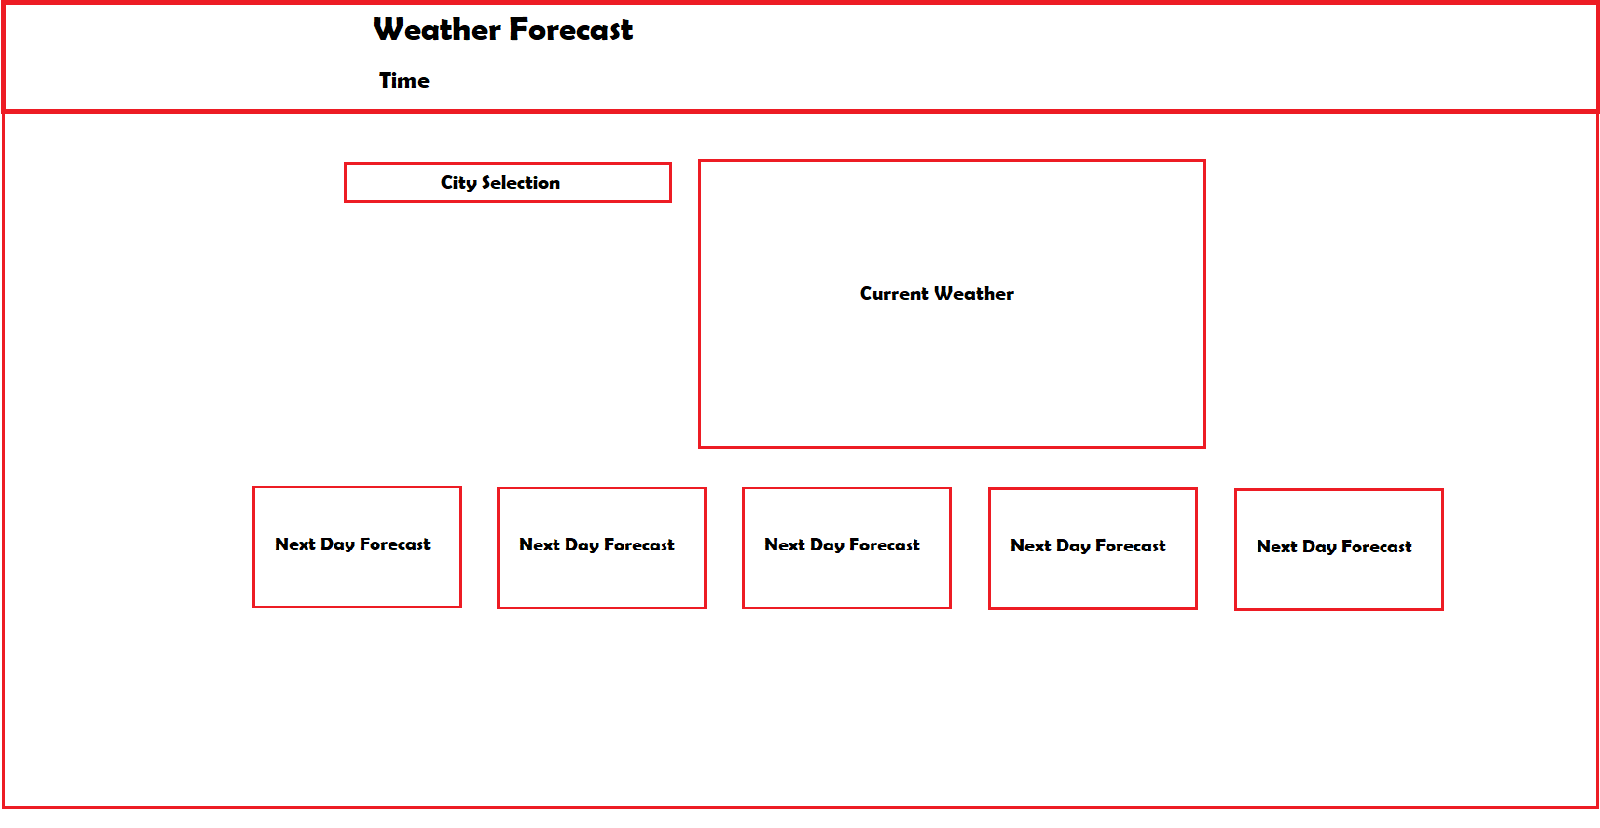
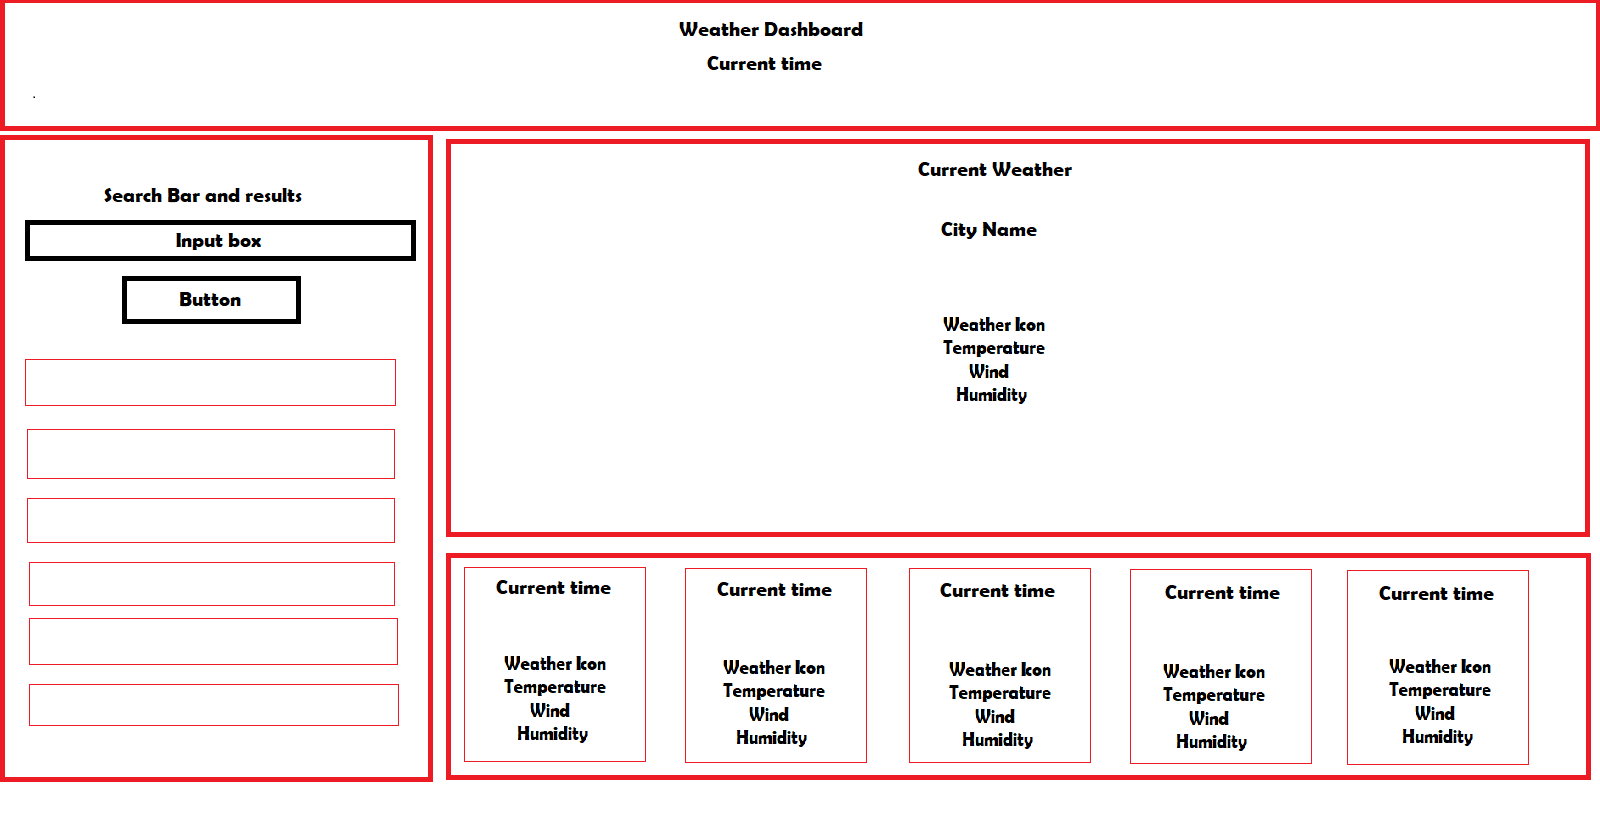
Added API fetches to Javascript file

diff --git a/index.html b/index.html
@@ -11,7 +11,7 @@
     <title>5-day Weather Forecast</title>
   </head>
 
-    <body class="container-fluid">
+    <body class="container-fluid"> <!--Header-->
       <header class="container-fluid text-center" id="header">
         <h1 id="title">Weather Dashboard</h1>
         <h4 id="currentTime"></h4>
@@ -20,60 +20,68 @@
     <div class="container-fluid">
 
       <div class="row">
-        <div class="col-4 d-flex flex-column" id="searchContainer"> <!--Search container-->
+        <div class="col-3 d-flex flex-column" id="searchContainer"> <!--Search container-->
           <h3 class="text-center">Search for a City</h3>
-          <input type="text" id="searchBar"> <!--Search Input-->
+          <input type="text" id="searchBarInput"> <!--Search Input-->
           <button id="searchBtn" class="text-bg-light">Search</button> <!--Search Button-->
+          <!--Search History-->
+          <!--Search History-->
+          <!--Search History-->
         </div>
 
-        <div class="col-8 text-center text-bg-light" id="currentWeatherContainer">
-          <h5 id="cityName-date">Atlanta</h5>
-          <p id="currentTemp">56F</p>
-          <p id="currentWind">15MPH</p>
-          <p id="Humidity">44%</p>
+        <div class="col-8 text-center" id="currentWeatherContainer"> <!--Current Weather Container-->
+          <h6 class="text-center" id="forecastTitle">Current Forecast</h6>
+          <div id="currentWeatherContainer" class="weatherBox">
+          <h5 id="cityName">Atlanta</h5><!--Current City-->
+          <p id="currentTemp">56F</p> <!--Current Temperature-->
+          <p id="currentWind">15MPH</p> <!--Current Wind Speed-->
+          <p id="Humidity">44%</p> <!--Current Humidity-->
+        </div>
+
+        <h6 class="text-center" id="forecastTitle">5-Day Forecast</h6>
+
+          <div class="container d-flex flex-row justify-content-between mt-2" id="forecastContainer">
+            <div class='weatherBox text-center' id="day1">
+              <h4 id="date">9/14/2022</h4>
+              <image id="icon">Icon</image>
+              <p id="temperature">Temperature</p>
+              <p id="wind">Wind</p>
+              <p id="humidity">Humidity</p>
+            </div>
+            <div class='weatherBox text-center' id="day2">
+              <h4 id="date">9/14/2022</h4>
+              <image id="icon">Icon</image>
+              <p id="temperature">Temperature</p>
+              <p id="wind">Wind</p>
+              <p id="humidity">Humidity</p>
+            </div>
+            <div class='weatherBox text-center' id="day3">
+              <h4 id="date">9/14/2022</h4>
+              <image id="icon">Icon</image>
+              <p id="temperature">Temperature</p>
+              <p id="wind">Wind</p>
+              <p id="humidity">Humidity</p>
+            </div>
+            <div class='weatherBox text-center' id="day4">
+              <h4 id="date">9/14/2022</h4>
+              <image id="icon">Icon</image>
+              <p id="temperature">Temperature</p>
+              <p id="wind">Wind</p>
+              <p id="humidity">Humidity</p>
+            </div>
+            <div class='weatherBox text-center' id="day5">
+              <h4 id="date">9/14/2022</h4>
+              <image id="icon">Icon</image>
+              <p id="temperature">Temperature</p>
+              <p id="wind">Wind</p>
+              <p id="humidity">Humidity</p>
+            </div>
         </div>
       </div>
 
     </div>
-    
-    <h6 class="text-center" id="forecastTitle">5-Day Forecast</h6>
-    <div class="container d-flex flex-row justify-content-between" id="forecastContainer">
-  
-      <div class='weatherBox text-center' id="day1">
-        <h4 id="date">9/14/2022</h4>
-        <image id="icon">Picture of weather here</image>
-        <p id="temperature">Temperature</p>
-        <p id="wind">Wind</p>
-        <p id="humidity">Humidity</p>
-      </div>
-      <div class='weatherBox text-center' id="day2">
-        <h4 id="date">9/14/2022</h4>
-        <image id="icon">Picture of weather here</image>
-        <p id="temperature">Temperature</p>
-        <p id="wind">Wind</p>
-        <p id="humidity">Humidity</p>
-      </div>
-      <div class='weatherBox text-center' id="day3">
-        <h4 id="date">9/14/2022</h4>
-        <image id="icon">Picture of weather here</image>
-        <p id="temperature">Temperature</p>
-        <p id="wind">Wind</p>
-        <p id="humidity">Humidity</p>
-      </div>
-      <div class='weatherBox text-center' id="day4">
-        <h4 id="date">9/14/2022</h4>
-        <image id="icon">Picture of weather here</image>
-        <p id="temperature">Temperature</p>
-        <p id="wind">Wind</p>
-        <p id="humidity">Humidity</p>
-      </div>
-      <div class='weatherBox text-center' id="day5">
-        <h4 id="date">9/14/2022</h4>
-        <image id="icon">Picture of weather here</image>
-        <p id="temperature">Temperature</p>
-        <p id="wind">Wind</p>
-        <p id="humidity">Humidity</p>
-      </div>
+
+
 
 
 
@@ -88,10 +96,10 @@
     integrity="sha256-o88AwQnZB+VDvE9tvIXrMQaPlFFSUTR+nldQm1LuPXQ="
     crossorigin="anonymous"></script> <!--JQUERY-->
 
-    <script
+    <!-- <script
     src="https://code.jquery.com/ui/1.13.2/jquery-ui.min.js"
     integrity="sha256-lSjKY0/srUM9BE3dPm+c4fBo1dky2v27Gdjm2uoZaL0="
-    crossorigin="anonymous"></script> <!--JQUERY UI-->
+    crossorigin="anonymous"></script> JQUERY UI -->
 
     <script
       src="https://cdn.jsdelivr.net/npm/dayjs@1.11.3/dayjs.min.js"

diff --git a/assets/script.js b/assets/script.js
@@ -2,27 +2,65 @@
 var currentDate = dayjs().format('dddd MMM D, YYYY');
 $('#currentTime').text(currentDate);
 
-//Weather APIs
-var Apikey = '2e4652b7589b2f1ce92a963bd9db3bfa'
-var geoUrl = 'https://api.openweathermap.org/geo/1.0/direct?q={city name},{state code},{country code}&limit={limit}&appid=2e4652b7589b2f1ce92a963bd9db3bfa'
-var requestUrl = 'https://api.openweathermap.org/data/2.5/forecast?lat=36.3724&lon=94.2102&units=imperial&appid=2e4652b7589b2f1ce92a963bd9db3bfa'
+//Weather API Doc: https://openweathermap.org/forecast5
+//Weather API key: 2e4652b7589b2f1ce92a963bd9db3bfa
+//5-day Weather Forecast URL: api.openweathermap.org/data/2.5/forecast?lat={lat}&lon={lon}&appid={API key}
+//Direct Geocoding: http://api.openweathermap.org/geo/1.0/direct?q={city name},{state code},{country code}&limit={limit}&appid={API key}
+//Use Direct Geocoding to grab latitude and longitude to plug into 5-day Weather-forcast request.
+//City Information
 
-function getApi() {
-    fetch(requestUrl) 
-        .then((response) => response.json())
-        .then((data) => console.log(data))
-};
-
-getApi();
-
-
-
-
+// function getApi() {
+//     fetch(geoUrl) 
+//         .then((response) => response.json())
+//         .then(function(data){
+//             console.log(data);
+//         })};
+        
 
 
 
 
 
+
+
+
+
+function getInput() {
+    var userInput = $('#searchBarInput').val();
+    var geoUrl = `https://api.openweathermap.org/geo/1.0/direct?q=${userInput}&units=imperial&appid=2e4652b7589b2f1ce92a963bd9db3bfa`
+    var apikey = '2e4652b7589b2f1ce92a963bd9db3bfa';
+    function getApi() {
+        fetch(geoUrl) 
+            .then((response) => response.json())
+            .then(function(data){
+
+                console.log(data);
+                var lat = data[0].lat;
+                var lon = data[0].lon;
+                var requestUrl = `https://api.openweathermap.org/data/2.5/forecast?lat=${lat}&lon=${lon}&units=imperial&appid=${apikey}`
+
+
+                fetch(requestUrl)
+                    .then((response) => response.json())
+                    .then(function(data) {
+                        console.log(data);
+
+                    })
+            })};
+    
+    getApi();
+}
+
+
+
+$('#searchBtn').on('click', getInput);
+
+//Grab city name from user search
+//Insert city name into geoUrl api
+//Grab latitude and longitude from geoUrl
+//Insert latitude and longtude into requestUrl
+//Grab weather information from requestUrl
+//Insert weather information into html document
 
 
 

diff --git a/assets/style.css b/assets/style.css
@@ -22,7 +22,6 @@ body {
 }
 
 #currentWeatherContainer {
-    margin-top: 2rem;
 }
 
 #forecastTitle {
@@ -30,12 +29,17 @@ body {
     font-size: 2rem;
     margin-bottom: 1rem;
     border-bottom: 0.1rem solid white;
+    color:coral;
 }
 
 .weatherBox {
-    padding: 1rem;
+    padding: 1.5rem;
     background-color: white;
     color: black;
     border: 0.1rem solid black;
     border-radius: 0.4rem;
+}
+
+@media screen {
+    
 }
